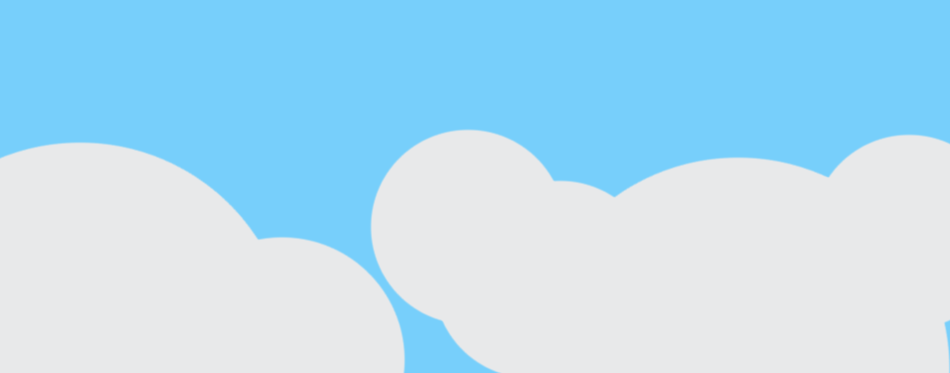
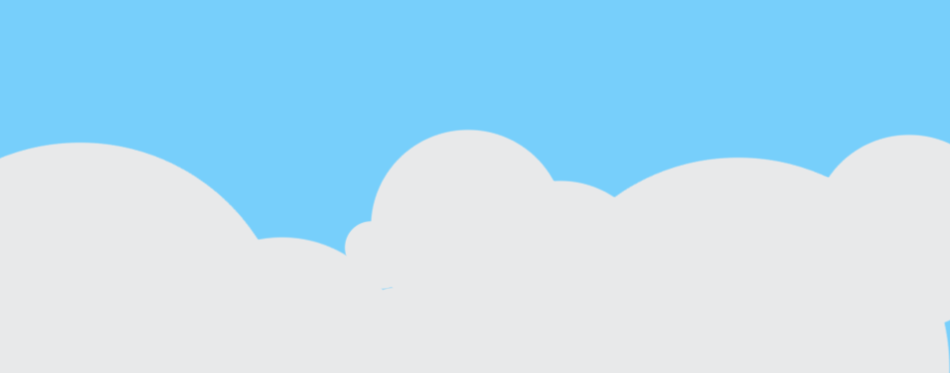
pushing the work page up.

Changed region(s): [[0.3358, 0.5898, 0.5189, 1.0]]

diff --git a/work.php b/work.php
@@ -32,7 +32,7 @@
 	
 	  <!-- Styles -->
 	  <link href="http://www.jqueryscript.net/css/jquerysctipttop.css" rel="stylesheet" type="text/css">
-	  <link rel="stylesheet" type="text/css" href="styles/styles.css"/>
+	  <link rel="stylesheet" type="text/css" href="styles/work.css"/>
 	  <link href="message.css" rel="stylesheet">
 	    
 	     <!--mobile and tablet styling -->
@@ -93,11 +93,20 @@
 		</section>
   
 		<div id="container" class="container">
-                        <ul id="scene" class="scene border fill">
-			      <li class="layer expand-width backStars" data-depth="1.00"><img class="backStars" src="img/transparent.png"></li>
-			      <li class="layer expand-width" data-depth="0.20"></li>
-                        </ul>
+		      <ul id="scene" class="scene border fill">
+			      <li class="layer expand-width backStars" data-depth="1.00"><img style="height: 500px;" class="backSky" src="img/transparent.png"></li>
+			      <li class="layer expand-width" data-depth="1.00"><!--possibly add another layer here later--></li>
+			      <li class="layer expand-width" data-depth="0.10"><img style="margin-top: 50px; margin-left: auto; margin-right: auto;" class="mountains" src="img/mountains2.png"></li>
+			      <li class="layer expand-width" data-depth="0.40"><img style="width: 100%; margin-top: 30px;" class="clouds-forefront" src="img/workclouds.png"></li>
+			      <li class="layer expand-width" data-depth="0.0"></li>
+		      </ul>
 		</div>
+                <div class="work-content">
+                    <div class="hh-container">
+                        <a href="http://www.haleyhalverson.com"><img class="hh-work" src="img/hh-work.png"></a>
+                    </div>
+                   
+                </div>
 		<div class="socialFooterLinks">
 			<a href="http://www.facebook.com/jonescommachris"><img class="bottomButtons" src="img/facebookBottom.png"></a>
 			<a href="https://dribbble.com/topherJonesy"><img class="bottomButtons" src="img/dribbble.png"></a>
